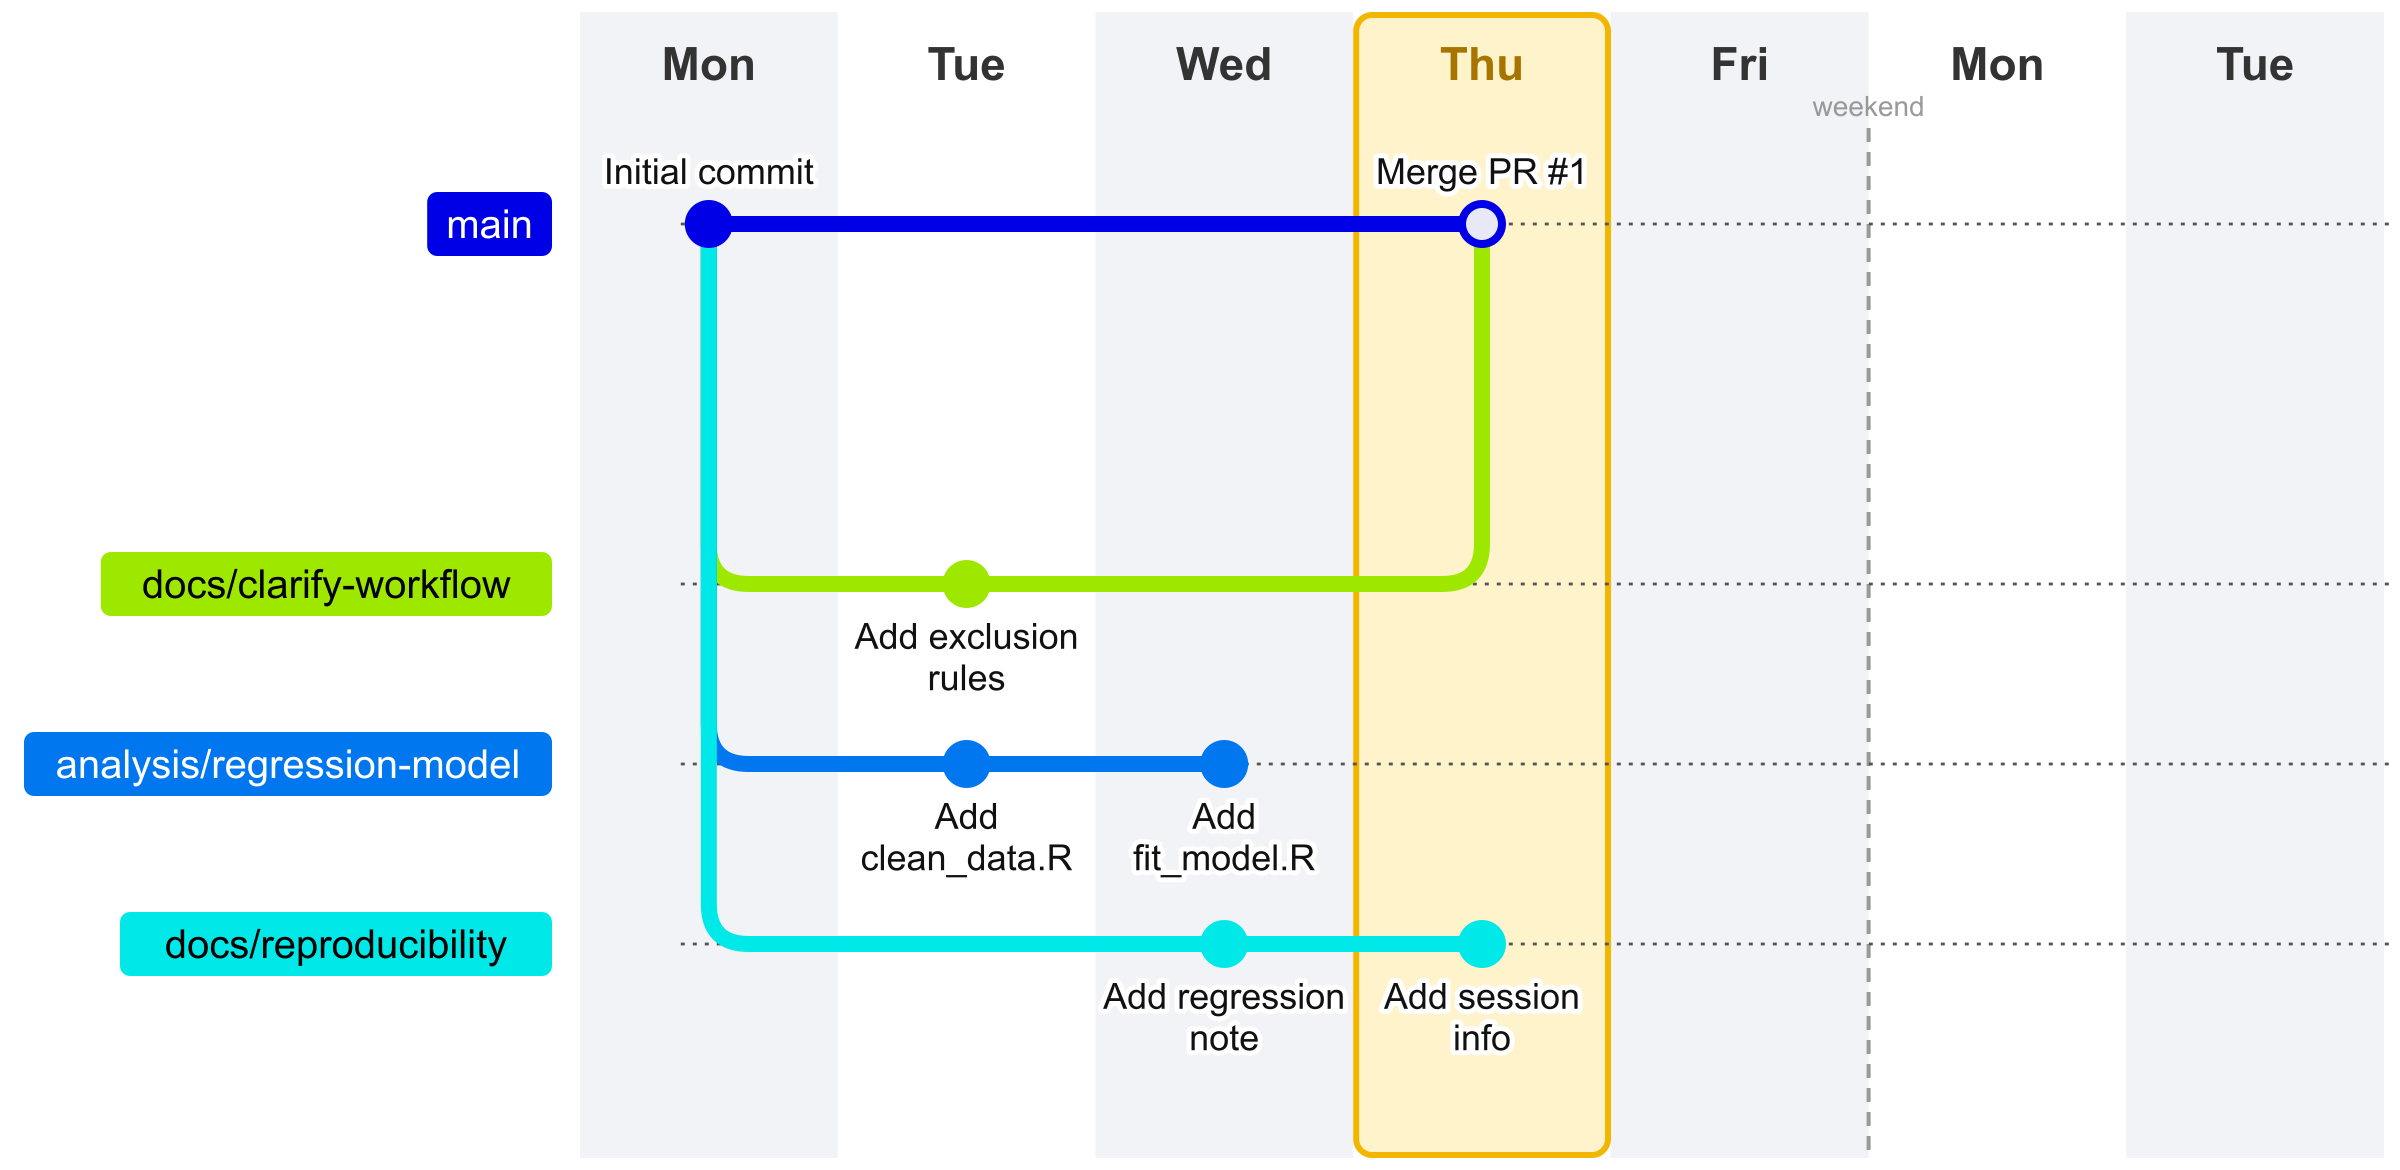
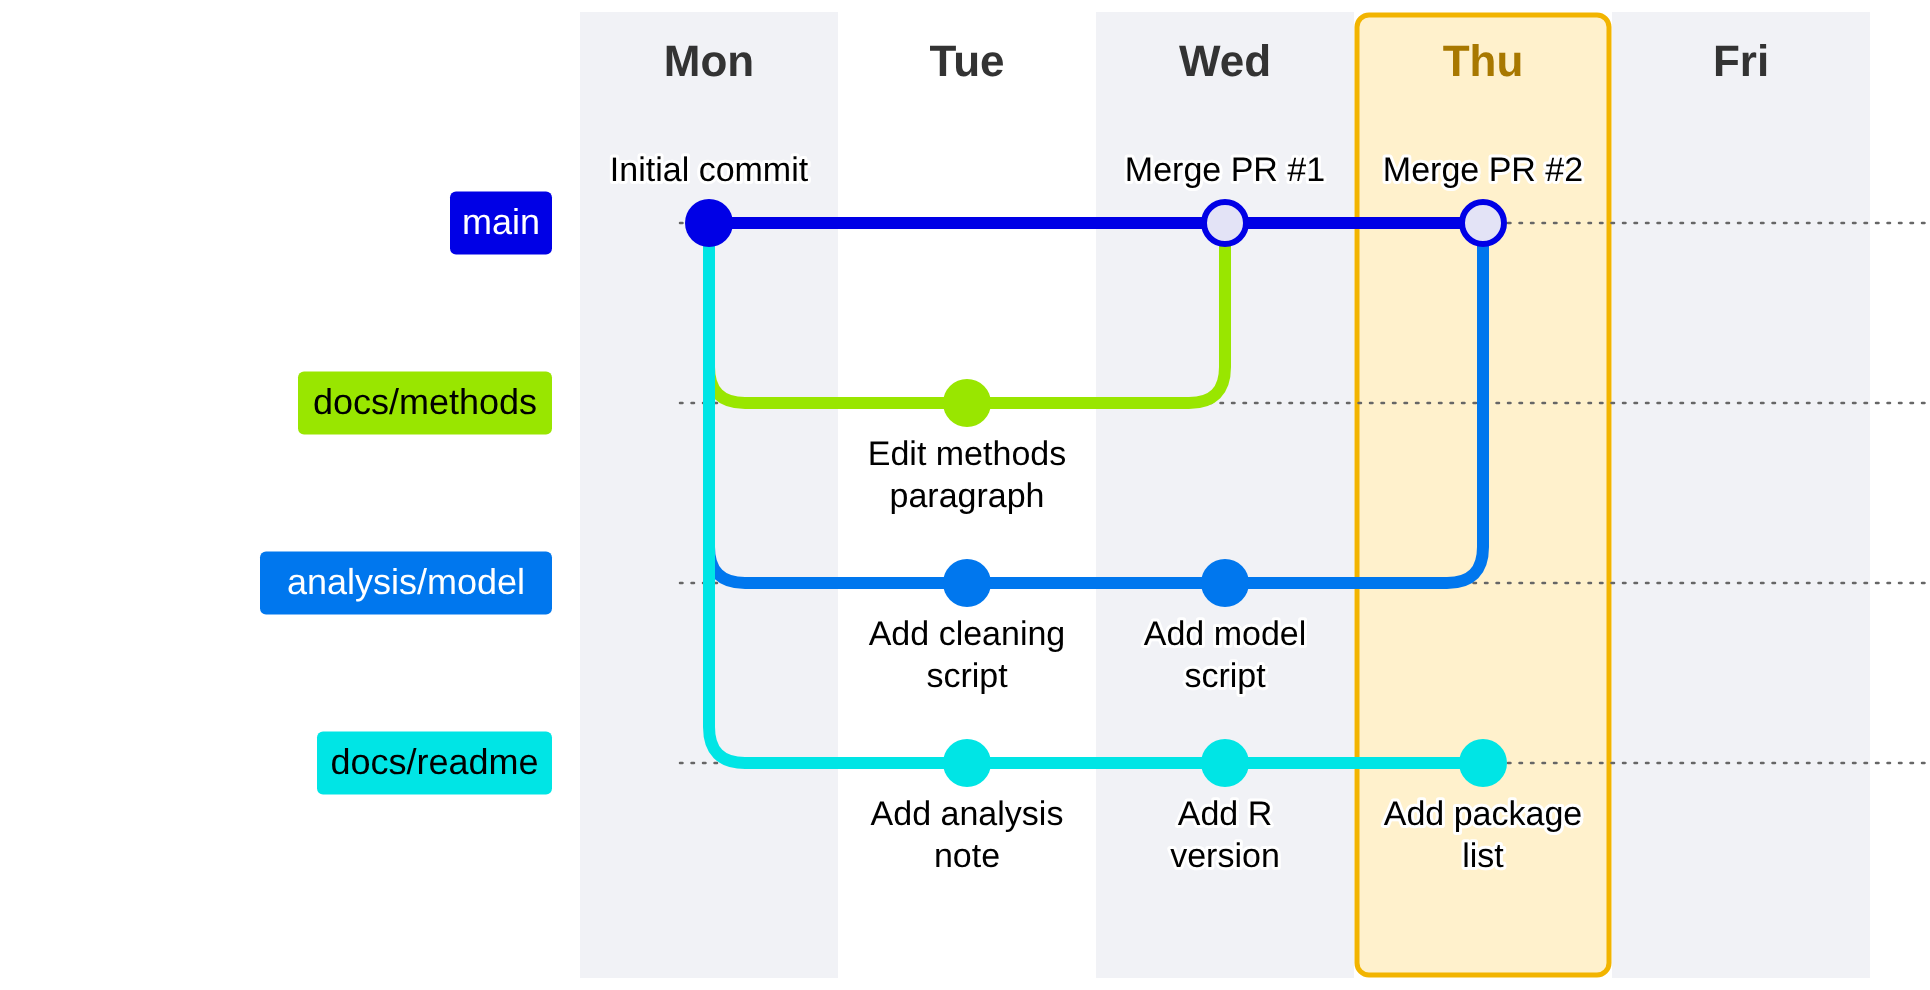
Simplify one-week-workflow-example by chaning the commit messages, branches and shortening it to 5 days

diff --git a/slides/slides.md b/slides/slides.md
@@ -644,7 +644,7 @@ A text file that tells git which files/folders to ignore.
 ---
 # What is a branch?
 
-A **branch** is a separate line of development in the *same* repository.
+A **branch** is a separate line of changes in the *same* repository.
 
 - `main` = the shared, stable line.
 - `docs/add-reproducibility-note` = work in progress.
@@ -666,7 +666,7 @@ new branch:      C ── D ──┘
 
 ![](git-toy-workflow-branches/day_1_Mon.png)
 
-Project set up: first commit with README and methods on main
+Project set up: first commit on main
 
 ---
 <!-- _class: workflow-full -->
@@ -676,7 +676,7 @@ Project set up: first commit with README and methods on main
 
 ![](git-toy-workflow-branches/day_2_Tue.png)
 
-Work splits into branches: exclusion rules and a data-cleaning script
+Work splits into three branches: methods, analysis and README
 
 ---
 <!-- _class: workflow-full -->
@@ -686,7 +686,7 @@ Work splits into branches: exclusion rules and a data-cleaning script
 
 ![](git-toy-workflow-branches/day_3_Wed.png)
 
-Regression model fitted in R; the approach documented on its own branch
+Methods edit reviewed and merged (PR #1); the other branches continue
 
 ---
 <!-- _class: workflow-full -->
@@ -696,7 +696,7 @@ Regression model fitted in R; the approach documented on its own branch
 
 ![](git-toy-workflow-branches/day_4_Thu.png)
 
-Session info recorded; exclusion rules reviewed and merged (PR #1)
+Analysis reviewed and merged (PR #2)
 
 ---
 <!-- _class: workflow-full -->
@@ -706,27 +706,7 @@ Session info recorded; exclusion rules reviewed and merged (PR #1)
 
 ![](git-toy-workflow-branches/day_5_Fri.png)
 
-Package versions pinned; R analysis reviewed and merged (PR #2)
-
----
-<!-- _class: workflow-full -->
-<!-- _header: '' -->
-<!-- _footer: '' -->
-# One week workflow example
-
-![](git-toy-workflow-branches/day_6_Mon.png)
-
-After the weekend: reproducibility docs merged (PR #3)
-
----
-<!-- _class: workflow-full -->
-<!-- _header: '' -->
-<!-- _footer: '' -->
-# One week workflow example
-
-![](git-toy-workflow-branches/day_7_Tue.png)
-
-Release branch tagged v1.0, with a CITATION.cff so others can cite it
+README notes merged (PR #3); main tagged v1.0 so others can cite this exact version
 
 ---
 <!-- _header: '' -->
